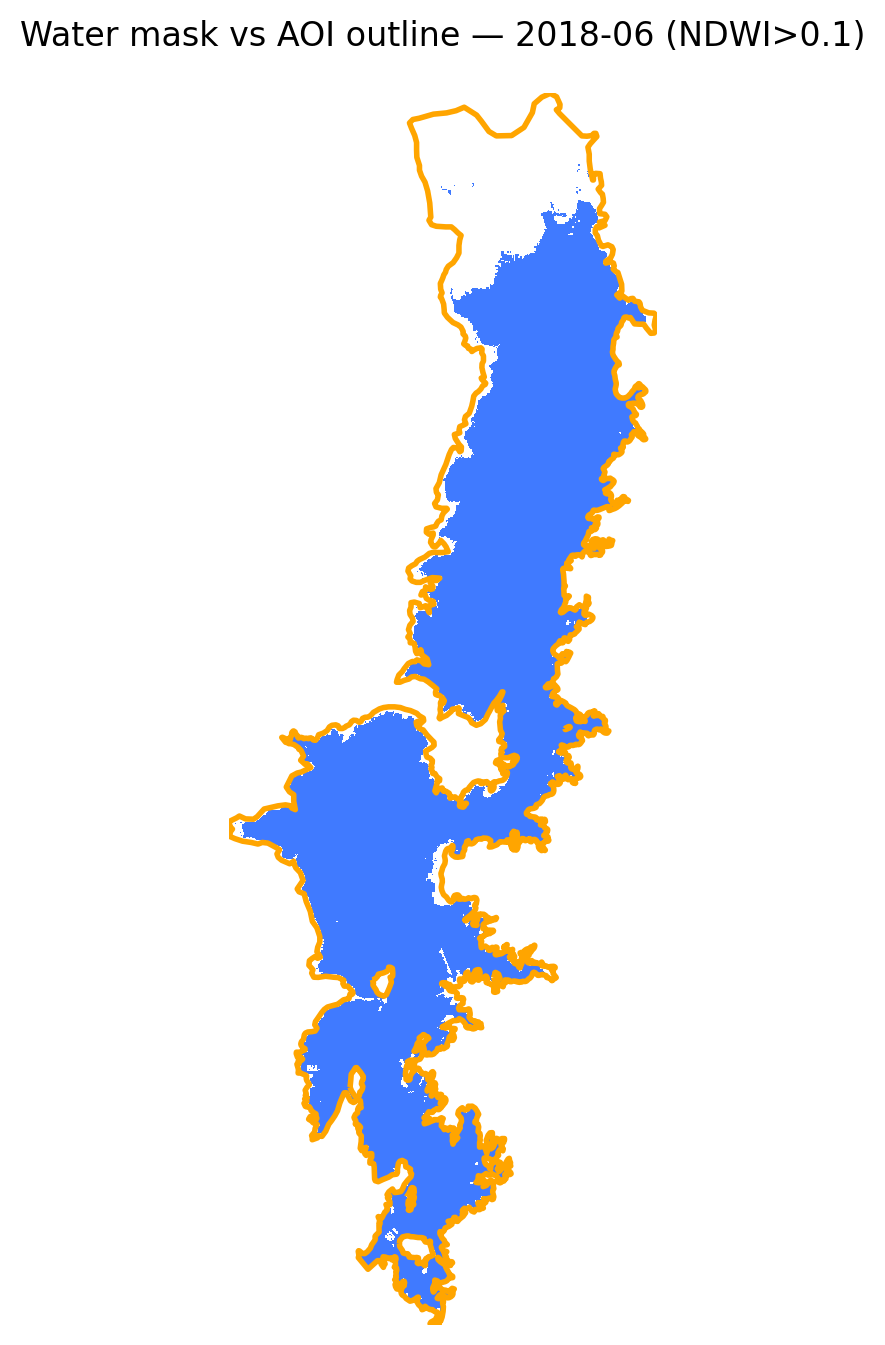
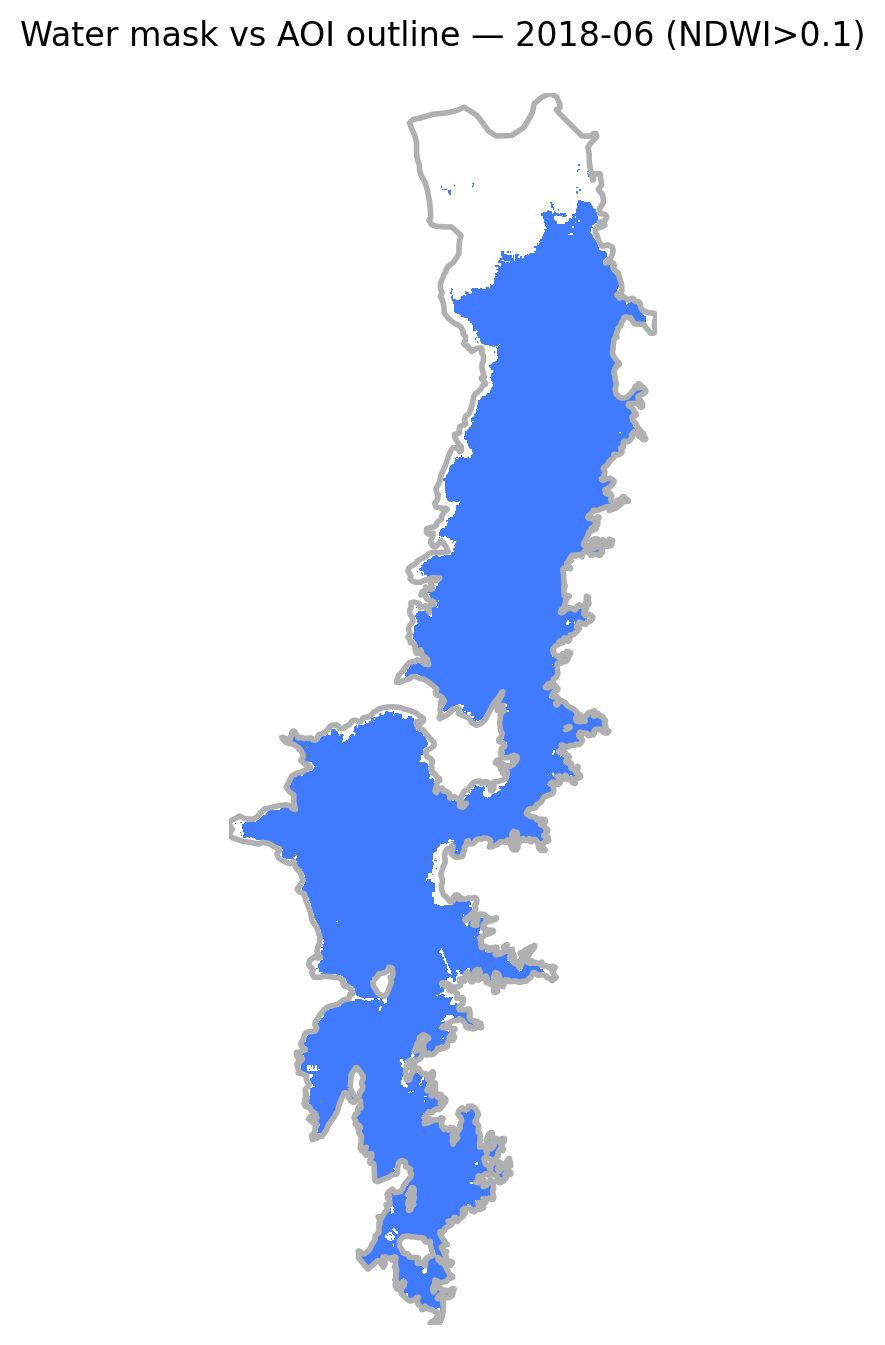
tweak border color

diff --git a/src/viz/water_viz.py b/src/viz/water_viz.py
@@ -80,8 +80,8 @@ class StoryStyle:
     margin_bottom: float = 0.02
 
     # Reference outline
-    ref_outline_color: str = "#B0B0B0""  # light gray 
-    ref_outline_width: float = 2.0
+    ref_outline_color: str = "#A9A9A9" # dark gray
+    ref_outline_width: float = 0.75
 
 
     # Label
